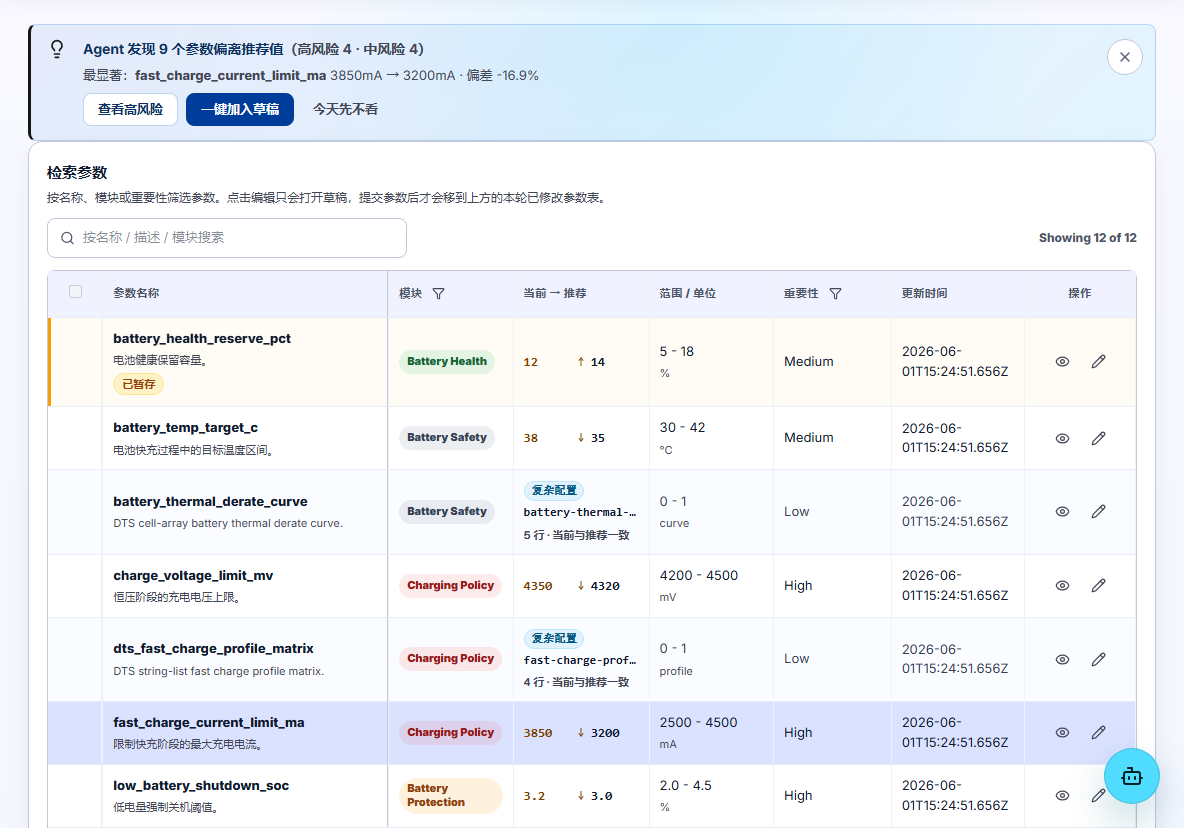
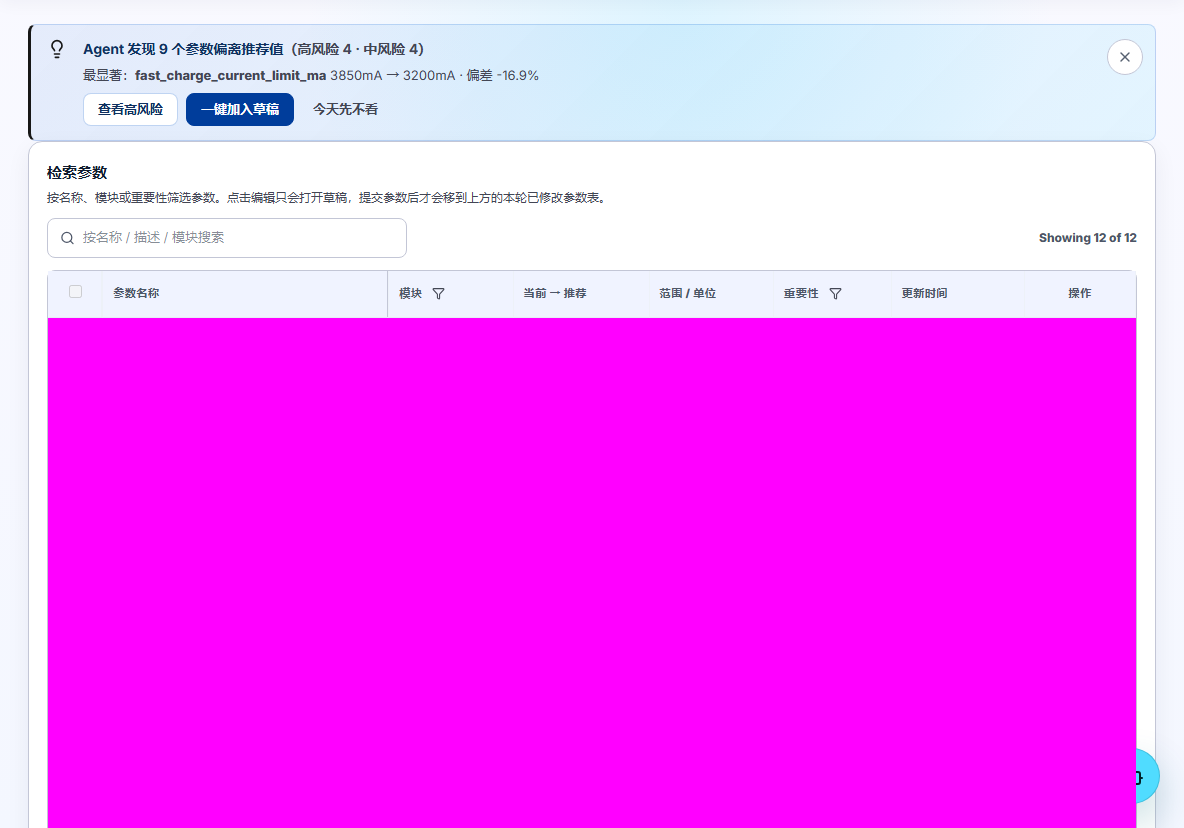
fix: mask dynamic parameter visual rows

diff --git a/scripts/check-quality-visual-masks.test.ts b/scripts/check-quality-visual-masks.test.ts
@@ -1,0 +1,13 @@
+import { readFileSync } from "node:fs";
+import { describe, expect, it } from "vitest";
+
+describe("quality visual masks", () => {
+  it("masks dynamic parameter table rows only for the parameters workbench screenshot", () => {
+    const helpers = readFileSync("e2e/quality/helpers.ts", "utf8");
+    const visualSpec = readFileSync("e2e/quality/visual.quality.spec.ts", "utf8");
+
+    expect(helpers).toContain(".parameters-table-grid tbody");
+    expect(helpers).toMatch(/routePath\s*===\s*"\/parameters"/);
+    expect(visualSpec).toContain("stableMasks(page, route.path)");
+  });
+});

diff --git a/e2e/quality/helpers.ts b/e2e/quality/helpers.ts
@@ -30,8 +30,8 @@ export async function openAgentPanel(page: Page) {
   return panel;
 }
 
-export function stableMasks(page: Page): Locator[] {
-  return [
+export function stableMasks(page: Page, routePath = ""): Locator[] {
+  const masks = [
     page.locator(".topbar-user-menu"),
     page.locator(".agent-panel .agent-message"),
     page.locator(".agent-panel .agent-context"),
@@ -41,6 +41,12 @@ export function stableMasks(page: Page): Locator[] {
     page.locator(".review-detail"),
     page.locator("[aria-live]")
   ];
+
+  if (routePath === "/parameters") {
+    masks.push(page.locator(".parameters-table-grid tbody"));
+  }
+
+  return masks;
 }
 
 export async function expectNoHorizontalOverflow(page: Page, tolerancePx = 2) {

diff --git a/e2e/quality/visual.quality.spec.ts b/e2e/quality/visual.quality.spec.ts
@@ -22,7 +22,7 @@ test.describe("M5.11 visual quality gate", () => {
       await expectUsablePage(page);
 
       await expect(page.locator("main, .main-content").first()).toHaveScreenshot(`${route.name}.png`, {
-        mask: stableMasks(page)
+        mask: stableMasks(page, route.path)
       });
     });
   }